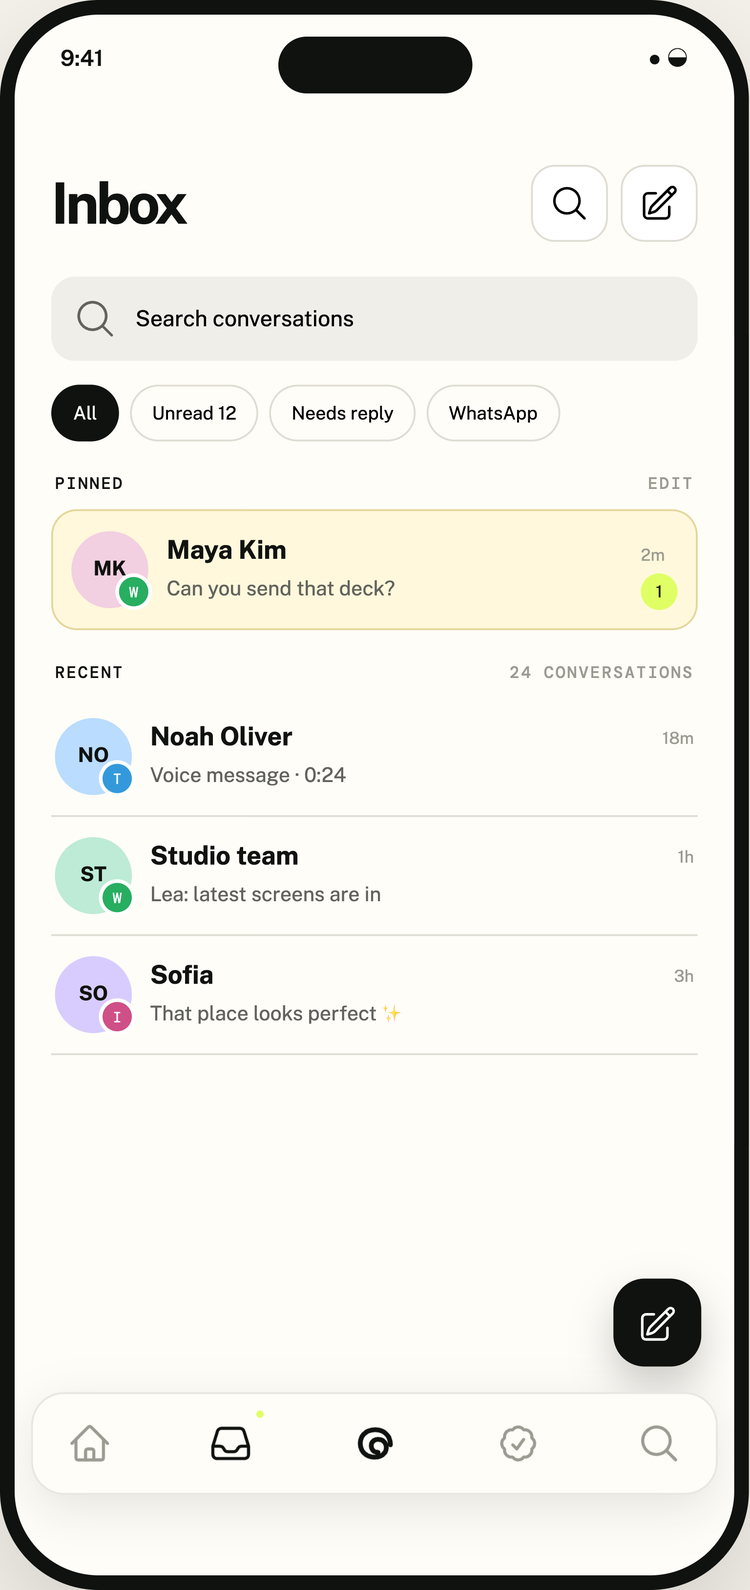
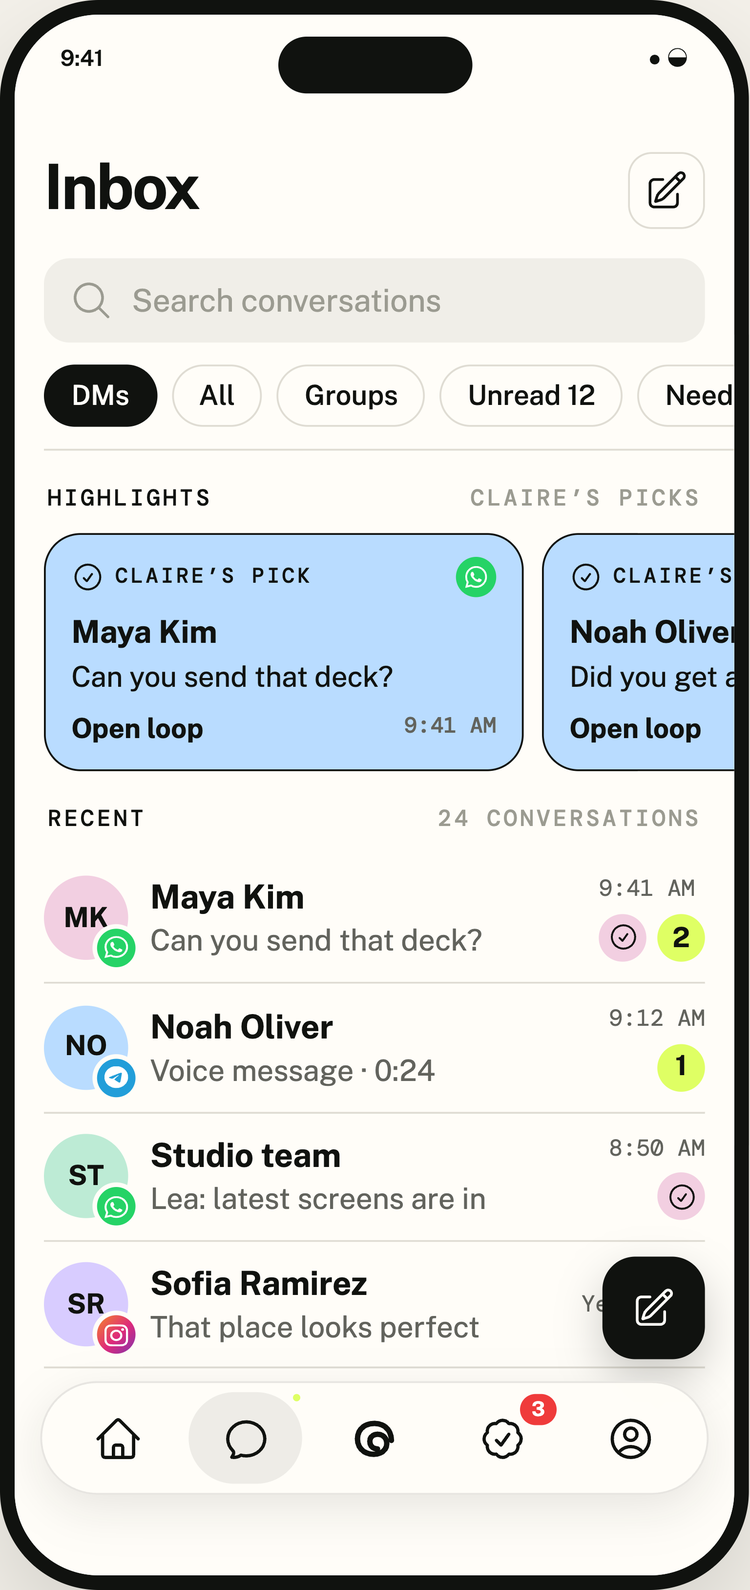
Re-shoot the mobile launch video on the refreshed mockups
The phone now shows the current app: tapping Maya opens the chat, Claire pins
an open loop when the deck is promised, View leads to Loops, and the Claire
tab answers the launch-timing question with its sources before Connections.
Captions grow from 92px to 104px.

The capture script resets scroll positions before shooting each base screen
(a piece below the fold scrolled the screen and shifted the base), and the
status bar overlay is keyed transparent so each screen's colour shows through.

diff --git a/marketing/launch-video/mobile/index.html b/marketing/launch-video/mobile/index.html
@@ -26,7 +26,7 @@
       .cap {
         position: absolute; left: 50%; transform: translateX(-50%); width: max-content; max-width: 1000px; text-align: center;
         padding: 16px 40px 26px; border-radius: 36px; background: rgba(250, 248, 242, 0);
-        font-family: "Inter", sans-serif; font-weight: 600; font-size: 92px; line-height: 1.04; letter-spacing: -0.04em; color: #10120f;
+        font-family: "Inter", sans-serif; font-weight: 600; font-size: 104px; line-height: 1.02; letter-spacing: -0.042em; color: #10120f;
       }
       .cap.light { color: #f4f1ea; }
       .cap .ln { display: block; white-space: nowrap; }
@@ -77,11 +77,10 @@
       .tapring { position: absolute; left: 0; top: 0; width: 60px; height: 60px; margin: -30px 0 0 -30px; border-radius: 50%; border: 3px solid #10120f; opacity: 0; z-index: 19; }
       .flash { position: absolute; border-radius: 18px; background: #dfff64; opacity: 0; mix-blend-mode: multiply; }
       .glow { position: absolute; border-radius: 16px; box-shadow: 0 0 0 3px #dfff64, 0 0 44px rgba(223, 255, 100, 0.95); opacity: 0; }
-      #tracked {
-        position: absolute; border-radius: 99px; background: #dfff64; color: #10120f; font-weight: 600; font-size: 11px;
-        display: flex; align-items: center; justify-content: center; gap: 3px; opacity: 0;
-      }
-      .qhalf { clip-path: inset(0 100% 0 0); }
+      /* typed question in the Ask Claire bar (app type is 17px at the mockup's 1.25 render scale) */
+      #typed { position: absolute; display: flex; align-items: center; font: 500 21.25px/1 "Public Sans", sans-serif; color: #10120f; }
+      #typed-text { display: block; overflow: hidden; white-space: nowrap; }
+      #typed-caret { width: 2px; height: 25px; background: #10120f; margin-left: 1px; }
 
       /* gallery phones */
       .gp { position: absolute; left: 0; top: 0; width: 511.25px; height: 1085px; border-radius: 67.5px; overflow: hidden; transform-origin: 0 0; box-shadow: 0 40px 90px rgba(16, 18, 15, 0.25); }
@@ -146,9 +145,9 @@
 
       <!-- S3–S6 · one continuous phone -->
       <div id="dev" class="clip" data-start="7.3" data-duration="21.9" data-track-index="1">
-        <div class="gp" id="gp1"><img src="assets/ui/full-daily-brief.png" alt="" /></div>
-        <div class="gp" id="gp2"><img src="assets/ui/full-ai-copilot.png" alt="" /></div>
-        <div class="gp" id="gp3"><img src="assets/ui/full-relationship-memory.png" alt="" /></div>
+        <div class="gp" id="gp1"><img src="assets/ui/full-home.png" alt="" /></div>
+        <div class="gp" id="gp2"><img src="assets/ui/full-ask-claire.png" alt="" /></div>
+        <div class="gp" id="gp3"><img src="assets/ui/full-loops.png" alt="" /></div>
         <div class="cam" id="cam">
           <div class="phone" id="phone">
             <img class="frame" src="assets/ui/ib-base.png" alt="" />
@@ -162,44 +161,40 @@
                 <img class="pc" id="ib-r4" src="assets/ui/ib-r4.png" alt="" />
                 <div class="flash" id="ib-flash"></div>
               </div>
-              <!-- promises -->
-              <div class="scr" id="scr-pr">
-                <img class="base" src="assets/ui/pr-base.png" alt="" />
-                <img class="pc" id="pr-p1" src="assets/ui/pr-p1.png" alt="" />
-                <img class="pc" id="pr-p2" src="assets/ui/pr-p2.png" alt="" />
-                <img class="pc" id="pr-p3" src="assets/ui/pr-p3.png" alt="" />
-                <img class="pc" id="pr-p4" src="assets/ui/pr-p4.png" alt="" />
-                <div class="glow" id="pr-glow"></div>
+              <!-- loops -->
+              <div class="scr" id="scr-lp">
+                <img class="base" src="assets/ui/lp-base.png" alt="" />
+                <img class="pc" id="lp-l1" src="assets/ui/lp-l1.png" alt="" />
+                <img class="pc" id="lp-l2" src="assets/ui/lp-l2.png" alt="" />
+                <img class="pc" id="lp-l3" src="assets/ui/lp-l3.png" alt="" />
+                <div class="glow" id="lp-glow"></div>
               </div>
               <!-- chat -->
               <div class="scr" id="scr-ch">
                 <img class="base" src="assets/ui/ch-base.png" alt="" />
-                <img class="pc" id="ch-ribbon" src="assets/ui/ch-ribbon.png" alt="" />
-                <img class="pc" id="ch-b1" src="assets/ui/ch-b1.png" alt="" />
-                <img class="pc" id="ch-b2" src="assets/ui/ch-b2.png" alt="" />
+                <img class="pc" id="ch-m1" src="assets/ui/ch-m1.png" alt="" />
+                <img class="pc" id="ch-m2" src="assets/ui/ch-m2.png" alt="" />
+                <img class="pc" id="ch-m3" src="assets/ui/ch-m3.png" alt="" />
                 <div class="glow" id="ch-glow"></div>
-                <img class="pc" id="ch-promise" src="assets/ui/ch-promise.png" alt="" />
-                <div id="tracked"><svg width="11" height="11" viewBox="0 0 24 24" fill="none" stroke="#10120F" stroke-width="3.4" stroke-linecap="round" stroke-linejoin="round"><path d="M5 12.5l4.5 4.5L19 7.5" /></svg>Tracked</div>
-                <img class="pc" id="ch-b3" src="assets/ui/ch-b3.png" alt="" />
+                <img class="pc" id="ch-loop" src="assets/ui/ch-loop.png" alt="" />
               </div>
-              <!-- search results -->
-              <div class="scr" id="scr-sr">
-                <img class="base" src="assets/ui/sr-base.png" alt="" />
-                <img class="pc qhalf" id="sr-q1" src="assets/ui/sr-query.png" alt="" />
-                <img class="pc qhalf" id="sr-q2" src="assets/ui/sr-query.png" alt="" />
-                <img class="pc" id="sr-count" src="assets/ui/sr-count.png" alt="" />
-                <div class="glow" id="sr-glow"></div>
-                <img class="pc" id="sr-answer" src="assets/ui/sr-answer.png" alt="" />
-                <img class="pc" id="sr-g1" src="assets/ui/sr-g1.png" alt="" />
-                <img class="pc" id="sr-g2" src="assets/ui/sr-g2.png" alt="" />
+              <!-- ask claire -->
+              <div class="scr" id="scr-ak">
+                <img class="base" src="assets/ui/ak-base.png" alt="" />
+                <div id="typed"><span id="typed-text">What did Maya say about launch timing?</span><span id="typed-caret"></span></div>
+                <img class="pc" id="ak-q" src="assets/ui/ak-q.png" alt="" />
+                <div class="glow" id="ak-glow"></div>
+                <img class="pc" id="ak-a" src="assets/ui/ak-a.png" alt="" />
+                <img class="pc" id="ak-src" src="assets/ui/ak-src.png" alt="" />
+                <img class="pc" id="ak-cards" src="assets/ui/ak-cards.png" alt="" />
               </div>
-              <!-- connected accounts -->
-              <div class="scr" id="scr-ca">
-                <img class="base" src="assets/ui/ca-base.png" alt="" />
-                <img class="pc" id="ca-a1" src="assets/ui/ca-a1.png" alt="" />
-                <img class="pc" id="ca-a2" src="assets/ui/ca-a2.png" alt="" />
-                <img class="pc" id="ca-a3" src="assets/ui/ca-a3.png" alt="" />
-                <img class="pc" id="ca-note" src="assets/ui/ca-note.png" alt="" />
+              <!-- connections -->
+              <div class="scr" id="scr-cn">
+                <img class="base" src="assets/ui/cn-base.png" alt="" />
+                <img class="pc" id="cn-n1" src="assets/ui/cn-n1.png" alt="" />
+                <img class="pc" id="cn-n2" src="assets/ui/cn-n2.png" alt="" />
+                <img class="pc" id="cn-n3" src="assets/ui/cn-n3.png" alt="" />
+                <img class="pc" id="cn-n4" src="assets/ui/cn-n4.png" alt="" />
               </div>
               <img class="status" src="assets/ui/status.png" alt="" />
             </div>
@@ -214,7 +209,7 @@
         <div class="cap" id="cap3a" style="top: 150px"><span class="ln"><span class="w">Every</span> <span class="w">chat,</span></span><span class="ln"><span class="w">in</span> <span class="w hl"><span class="sw"></span>one inbox.</span></span></div>
         <div class="cap" id="cap3b" style="top: 150px"><span class="ln"><span class="w">You</span> <span class="w">make</span></span><span class="ln"><span class="w">a</span> <span class="w">promise.</span></span></div>
         <div class="cap" id="cap3c" style="top: 150px"><span class="ln"><span class="w">Claire</span></span><span class="ln"><span class="w hl"><span class="sw"></span>keeps track.</span></span></div>
-        <div class="cap" id="cap4" style="top: 150px"><span class="ln"><span class="w">Every</span> <span class="w">promise,</span></span><span class="ln"><span class="w">in</span> <span class="w hl"><span class="sw"></span>one place.</span></span></div>
+        <div class="cap" id="cap4" style="top: 150px"><span class="ln"><span class="w">Every</span> <span class="w">loop,</span></span><span class="ln"><span class="w">in</span> <span class="w hl"><span class="sw"></span>one place.</span></span></div>
         <div class="cap" id="cap5a" style="top: 150px"><span class="ln"><span class="w">Ask</span> <span class="w">anything,</span></span></div>
         <div class="cap" id="cap5b" style="top: 150px"><span class="ln"><span class="w">answered</span> <span class="w">from</span></span><span class="ln"><span class="w hl"><span class="sw"></span>every chat.</span></span></div>
         <div class="cap" id="cap6a" style="top: 150px"><span class="ln"><span class="w">Connect</span></span><span class="ln"><span class="w slot" id="slot6"><span style="color: #14823d">WhatsApp</span><span style="color: #1673a3">Telegram</span><span style="color: #c21f63">Instagram</span><span>every network.</span></span></span></div>
@@ -251,21 +246,22 @@
       <audio id="sfx-collapse" src="assets/sfx/whoosh-short.mp3" data-start="4.35" data-duration="0.57" data-volume="0.6"></audio>
       <audio id="sfx-icon" src="assets/sfx/sparkle.mp3" data-start="5.05" data-duration="1.8" data-volume="0.55"></audio>
       <audio id="sfx-zoom" src="assets/sfx/whoosh-cinematic.mp3" data-start="6.6" data-duration="2.2" data-volume="0.5"></audio>
-      <audio id="sfx-tap1" src="assets/sfx/click-soft.mp3" data-start="9.9" data-duration="0.37" data-volume="0.8"></audio>
+      <audio id="sfx-tap1" src="assets/sfx/click-soft.mp3" data-start="9.85" data-duration="0.37" data-volume="0.8"></audio>
       <audio id="sfx-push1" src="assets/sfx/whoosh-short.mp3" data-start="10.1" data-duration="0.57" data-volume="0.35"></audio>
-      <audio id="sfx-b" src="assets/sfx/click-soft.mp3" data-start="11.3" data-duration="0.37" data-volume="0.5"></audio>
-      <audio id="sfx-promise" src="assets/sfx/chime.mp3" data-start="12.5" data-duration="1.6" data-volume="0.45"></audio>
-      <audio id="sfx-tap2" src="assets/sfx/click-soft.mp3" data-start="13.6" data-duration="0.37" data-volume="0.8"></audio>
-      <audio id="sfx-tap3" src="assets/sfx/click-soft.mp3" data-start="15.2" data-duration="0.37" data-volume="0.8"></audio>
-      <audio id="sfx-tap4" src="assets/sfx/click-soft.mp3" data-start="15.95" data-duration="0.37" data-volume="0.8"></audio>
-      <audio id="sfx-pr" src="assets/sfx/pop.mp3" data-start="16.6" data-duration="0.72" data-volume="0.4"></audio>
-      <audio id="sfx-tap5" src="assets/sfx/click-soft.mp3" data-start="18.4" data-duration="0.37" data-volume="0.8"></audio>
-      <audio id="sfx-type" src="assets/sfx/typing.mp3" data-start="18.9" data-duration="1.2" data-volume="0.5"></audio>
-      <audio id="sfx-ans" src="assets/sfx/sparkle.mp3" data-start="20.3" data-duration="1.8" data-volume="0.5"></audio>
-      <audio id="sfx-push2" src="assets/sfx/whoosh.mp3" data-start="22.9" data-duration="0.57" data-volume="0.45"></audio>
-      <audio id="sfx-k1" src="assets/sfx/pop.mp3" data-start="23.5" data-duration="0.72" data-volume="0.45"></audio>
-      <audio id="sfx-k2" src="assets/sfx/pop.mp3" data-start="24.05" data-duration="0.72" data-volume="0.45"></audio>
-      <audio id="sfx-k3" src="assets/sfx/pop.mp3" data-start="24.6" data-duration="0.72" data-volume="0.45"></audio>
+      <audio id="sfx-m" src="assets/sfx/click-soft.mp3" data-start="11.3" data-duration="0.37" data-volume="0.5"></audio>
+      <audio id="sfx-loop" src="assets/sfx/chime.mp3" data-start="12.45" data-duration="1.6" data-volume="0.45"></audio>
+      <audio id="sfx-tap2" src="assets/sfx/click-soft.mp3" data-start="13.95" data-duration="0.37" data-volume="0.8"></audio>
+      <audio id="sfx-push-lp" src="assets/sfx/whoosh-short.mp3" data-start="14.15" data-duration="0.57" data-volume="0.35"></audio>
+      <audio id="sfx-lp" src="assets/sfx/pop.mp3" data-start="15.0" data-duration="0.72" data-volume="0.4"></audio>
+      <audio id="sfx-tap3" src="assets/sfx/click-soft.mp3" data-start="17.45" data-duration="0.37" data-volume="0.8"></audio>
+      <audio id="sfx-tap4" src="assets/sfx/click-soft.mp3" data-start="18.1" data-duration="0.37" data-volume="0.8"></audio>
+      <audio id="sfx-type" src="assets/sfx/typing.mp3" data-start="18.3" data-duration="1.15" data-volume="0.5"></audio>
+      <audio id="sfx-tap5" src="assets/sfx/click-soft.mp3" data-start="19.6" data-duration="0.37" data-volume="0.8"></audio>
+      <audio id="sfx-ans" src="assets/sfx/sparkle.mp3" data-start="20.15" data-duration="1.8" data-volume="0.5"></audio>
+      <audio id="sfx-push2" src="assets/sfx/whoosh.mp3" data-start="22.5" data-duration="0.57" data-volume="0.45"></audio>
+      <audio id="sfx-k1" src="assets/sfx/pop.mp3" data-start="23.1" data-duration="0.72" data-volume="0.45"></audio>
+      <audio id="sfx-k2" src="assets/sfx/pop.mp3" data-start="23.65" data-duration="0.72" data-volume="0.45"></audio>
+      <audio id="sfx-k3" src="assets/sfx/pop.mp3" data-start="24.2" data-duration="0.72" data-volume="0.45"></audio>
       <audio id="sfx-riser" src="assets/sfx/riser.mp3" data-start="25.6" data-duration="3.2" data-volume="0.35"></audio>
       <audio id="sfx-pix" src="assets/sfx/whoosh-cinematic.mp3" data-start="28" data-duration="2" data-volume="0.45"></audio>
       <audio id="sfx-wm" src="assets/sfx/impact-bass-1.mp3" data-start="31.9" data-duration="2.1" data-volume="0.6"></audio>
@@ -276,26 +272,23 @@
       (function () {
         // ------- positions measured from the website mockups (phone-local CSS px, 511.25×1085) -------
         const LAYOUT = {
-          ib: { r1: [35, 346.9, 441.3, 82.5], r2: [35, 475.6, 441.3, 81.3], r3: [35, 556.9, 441.3, 81.3], r4: [35, 638.1, 441.3, 81.3] },
-          ch: { ribbon: [26.3, 178.8, 458.8, 78.8], b1: [27.5, 304.4, 355.9, 83.1], b2: [152.2, 397.5, 331.5, 62.1], promise: [27.5, 469.5, 456.3, 61.3], b3: [27.5, 540.8, 355.9, 64.6], track: [424.1, 486.4, 45.9, 27.5] },
-          pr: { p1: [35, 381.9, 441.3, 85], p2: [35, 466.9, 441.3, 85], p3: [35, 598.1, 441.3, 85], p4: [35, 683.1, 441.3, 85] },
-          sr: { query: [35, 182.5, 441.3, 75], count: [35, 268.8, 441.3, 16.9], answer: [35, 304.4, 441.3, 151.9], g1: [35, 475, 441.3, 182.5], g2: [35, 673.8, 441.3, 106.3] },
-          ca: { a1: [35, 364.6, 441.3, 88.8], a2: [35, 464.6, 441.3, 88.8], a3: [35, 564.6, 441.3, 88.8], note: [35, 673.4, 441.3, 80.6] },
+          ib: { r1: [30, 582.2, 451.3, 88.6], r2: [30, 670.8, 451.3, 88.6], r3: [30, 759.4, 451.3, 88.6], r4: [30, 848, 451.3, 86.3] },
+          ch: { loop: [25, 175.3, 461.3, 88.2], m1: [25, 313.8, 350.5, 118.8], m2: [135.7, 442.5, 350.5, 118.8], m3: [25, 571.3, 350.5, 118.8] },
+          lp: { l1: [30, 403.2, 451.3, 135], l2: [30, 538.2, 451.3, 135], l3: [30, 673.2, 451.3, 135] },
+          ak: { q: [93.2, 203.8, 388.1, 92.5], a: [30, 311.3, 451.3, 162.5], src: [30, 488.8, 451.3, 33.8], cards: [30, 535, 471.3, 180.2] },
+          cn: { n1: [47.5, 586.1, 416.3, 115.3], n2: [47.5, 701.4, 416.3, 116.6], n3: [47.5, 874.1, 416.3, 115.3], n4: [47.5, 989.4, 416.3, 116.6] },
         };
-        // Tap targets not captured as pieces (read off the base screens).
-        const BACK = [47, 128], TAB_PROMISES = [353, 984], TAB_SEARCH = [449, 984];
+        // Tap targets and overlays measured alongside the pieces.
+        const VIEW = [422.3, 205.9, 45.2, 27], TAB_CLAIRE = [216.9, 950, 77.5, 62.5];
+        const AK_INPUT = [53.8, 880.7, 356.3, 28.7], AK_SEND = [422.5, 871.3, 47.5, 47.5];
 
         const place = (id, r) => { const e = document.getElementById(id); Object.assign(e.style, { left: r[0] + "px", top: r[1] + "px", width: r[2] + "px", height: r[3] + "px" }); };
-        Object.entries(LAYOUT).forEach(([scr, pieces]) => Object.entries(pieces).forEach(([k, r]) => {
-          if (scr === "ch" && k === "track") return;
-          if (scr === "sr" && k === "query") { place("sr-q1", r); place("sr-q2", r); return; }
-          place(scr + "-" + k, r);
-        }));
+        Object.entries(LAYOUT).forEach(([scr, pieces]) => Object.entries(pieces).forEach(([k, r]) => place(scr + "-" + k, r)));
         place("ib-flash", LAYOUT.ib.r1);
-        place("ch-glow", LAYOUT.ch.promise);
-        place("tracked", LAYOUT.ch.track);
-        place("pr-glow", LAYOUT.pr.p1);
-        place("sr-glow", LAYOUT.sr.answer);
+        place("ch-glow", LAYOUT.ch.loop);
+        place("lp-glow", LAYOUT.lp.l1);
+        place("ak-glow", LAYOUT.ak.a);
+        place("typed", AK_INPUT);
 
         // ------- S1 notifications -------
         const NOTES = [
@@ -379,9 +372,13 @@
             tl.to("#tap", { scale: 0.85, opacity: 0, duration: 0.3, ease: "power2.in" }, at + 0.22);
             tl.fromTo("#tapring", { x: x, y: y, scale: 0.8, opacity: 0.7 }, { scale: 1.8, opacity: 0, duration: 0.5, ease: "power2.out", immediateRender: false }, at + 0.05);
           };
+          // Each newly shown screen stacks above everything shown before it.
+          let depth = 1;
+          const raise = (sel, at) => tl.set(sel, { zIndex: ++depth }, at);
           const push = (inSel, outSel, at) => {
+            raise(inSel, at);
             tl.fromTo(inSel, { x: 511, opacity: 1 }, { x: 0, duration: 0.5, ease: "power3.inOut", immediateRender: false }, at);
-            if (outSel) tl.to(outSel, { x: -150, opacity: 0.4, duration: 0.5, ease: "power3.inOut" }, at);
+            if (outSel) tl.to(outSel, { x: -150, filter: "brightness(0.82)", duration: 0.5, ease: "power3.inOut" }, at);
           };
           const mid = (r) => [r[0] + r[2] / 2, r[1] + r[3] / 2];
           const S0 = [1.3, 255.6, 542, 540, 1150];
@@ -423,12 +420,12 @@
           tl.to("#lime-fill", { opacity: 1, duration: 0.15 }, 7.15);
           tl.to("#wall-dark", { opacity: 0, duration: 0.01 }, 7.3);
 
-          // ===== S3 · inbox → chat → promise (7.3 – 15.2) =====
+          // ===== S3 · inbox → chat → open loop (7.3 – 14.2) =====
           camSet(...S0);
-          gsap.set("#scr-pr, #scr-ch, #scr-sr, #scr-ca", { x: 511 });
-          gsap.set("#scr-pr", { x: 0, opacity: 0 });
+          gsap.set("#scr-lp, #scr-ch, #scr-ak, #scr-cn", { x: 511 });
+          gsap.set("#scr-ak", { x: 0, opacity: 0 });
           gsap.set(".gp", { opacity: 0 });
-          gsap.set("#ib-r1, #ib-r2, #ib-r3, #ib-r4, #ch-ribbon, #ch-b1, #ch-b2, #ch-promise, #ch-b3, #pr-p1, #pr-p2, #pr-p3, #pr-p4, #sr-count, #sr-answer, #sr-g1, #sr-g2, #ca-a1, #ca-a2, #ca-a3, #ca-note", { opacity: 0 });
+          gsap.set("#ib-r1, #ib-r2, #ib-r3, #ib-r4, #ch-m1, #ch-m2, #ch-m3, #ch-loop, #lp-l1, #lp-l2, #lp-l3, #ak-q, #ak-a, #ak-src, #ak-cards, #cn-n1, #cn-n2, #cn-n3, #cn-n4", { opacity: 0 });
           tl.fromTo("#phone", { y: 700, rotationX: 24, scale: 0.9, filter: "blur(18px)", transformPerspective: 2000, transformOrigin: "50% 0%" }, { y: 0, rotationX: 0, scale: 1, filter: "blur(0px)", duration: 1.1, ease: "expo.out" }, 7.3);
           capIn("#cap3a", 7.6, 0.1);
           tl.fromTo("#ib-r1, #ib-r2, #ib-r3, #ib-r4", { opacity: 0, x: -30 }, { opacity: 1, x: 0, duration: 0.45, ease: "expo.out", stagger: 0.09 }, 7.9);
@@ -438,63 +435,64 @@
           tl.fromTo("#ib-flash", { opacity: 0 }, { opacity: 0.55, duration: 0.1, yoyo: true, repeat: 1 }, 9.9);
           capOut("#cap3a", 10.0);
           push("#scr-ch", "#scr-ib", 10.1);
-          camTo(1.8, 255, 430, 540, 1180, 10.3, 1.0);
-          tl.fromTo("#ch-ribbon", { opacity: 0, y: -12 }, { opacity: 1, y: 0, duration: 0.4, ease: "power3.out" }, 10.6);
-          tl.fromTo("#ch-b1", { opacity: 0, y: 14, scale: 0.94, transformOrigin: "0% 100%" }, { opacity: 1, y: 0, scale: 1, duration: 0.4, ease: "back.out(1.8)" }, 10.9);
-          capIn("#cap3b", 11.0, 0.08);
-          tl.fromTo("#ch-b2", { opacity: 0, y: 14, scale: 0.94, transformOrigin: "100% 100%" }, { opacity: 1, y: 0, scale: 1, duration: 0.4, ease: "back.out(1.8)" }, 11.3);
+          camTo(1.75, 255, 430, 540, 1200, 10.3, 1.0);
+          tl.fromTo("#ch-m1", { opacity: 0, y: 16, scale: 0.94, transformOrigin: "0% 100%" }, { opacity: 1, y: 0, scale: 1, duration: 0.4, ease: "back.out(1.8)" }, 10.7);
+          capIn("#cap3b", 10.85, 0.08);
+          tl.fromTo("#ch-m2", { opacity: 0, y: 16, scale: 0.94, transformOrigin: "100% 100%" }, { opacity: 1, y: 0, scale: 1, duration: 0.4, ease: "back.out(1.8)" }, 11.3);
           capOut("#cap3b", 12.2);
-          tl.fromTo("#ch-promise", { opacity: 0, scale: 0.9, filter: "blur(10px)" }, { opacity: 1, scale: 1, filter: "blur(0px)", duration: 0.5, ease: "expo.out" }, 12.5);
+          // Claire hears the commitment and pins the open loop above the thread
+          tl.fromTo("#ch-loop", { opacity: 0, y: -40, scale: 0.94, filter: "blur(8px)" }, { opacity: 1, y: 0, scale: 1, filter: "blur(0px)", duration: 0.55, ease: "expo.out" }, 12.45);
           tl.fromTo("#ch-glow", { opacity: 0 }, { opacity: 1, duration: 0.25 }, 12.55);
-          tl.to("#ch-glow", { opacity: 0, duration: 0.6 }, 13.2);
-          capIn("#cap3c", 12.6, 0.1);
-          const trk = mid(LAYOUT.ch.track);
-          tap(trk[0], trk[1], 13.6);
-          tl.fromTo("#tracked", { opacity: 0, scale: 0.6 }, { opacity: 1, scale: 1, duration: 0.3, ease: "back.out(3)" }, 13.7);
-          tl.fromTo("#ch-b3", { opacity: 0, y: 14 }, { opacity: 1, y: 0, duration: 0.4, ease: "back.out(1.8)" }, 14.1);
-          camTo(...S0, 14.3, 0.8);
-          capOut("#cap3c", 14.9);
+          tl.to("#ch-glow", { opacity: 0, duration: 0.7 }, 13.2);
+          capIn("#cap3c", 12.55, 0.1);
+          tl.fromTo("#ch-m3", { opacity: 0, y: 16 }, { opacity: 1, y: 0, duration: 0.4, ease: "back.out(1.8)" }, 13.3);
+          const vw = mid(VIEW);
+          tap(vw[0], vw[1], 13.95);
+          capOut("#cap3c", 14.0);
 
-          // ===== S4 · back → promises tab (15.2 – 18.3) =====
-          tap(BACK[0], BACK[1], 15.2);
-          tl.to("#scr-ch", { x: 511, duration: 0.45, ease: "power3.inOut" }, 15.3);
-          tl.to("#scr-ib", { x: 0, opacity: 1, duration: 0.45, ease: "power3.inOut" }, 15.3);
-          tap(TAB_PROMISES[0], TAB_PROMISES[1], 15.95);
-          tl.fromTo("#scr-pr", { opacity: 0, scale: 0.98 }, { opacity: 1, scale: 1, duration: 0.3, ease: "power2.out", immediateRender: false }, 16.05);
-          tl.fromTo("#pr-p1, #pr-p2, #pr-p3, #pr-p4", { opacity: 0, y: 16 }, { opacity: 1, y: 0, duration: 0.4, ease: "expo.out", stagger: 0.08 }, 16.15);
-          capIn("#cap4", 16.1, 0.09);
-          tl.fromTo("#pr-glow", { opacity: 0 }, { opacity: 1, duration: 0.3 }, 16.6);
-          tl.to("#pr-glow", { opacity: 0, duration: 0.6 }, 17.3);
-          camTo(1.6, 255, 450, 540, 1160, 16.3, 1.1);
-          capOut("#cap4", 17.6);
-          camTo(...S0, 17.8, 0.55);
+          // ===== S4 · loops (14.2 – 17.4) =====
+          push("#scr-lp", "#scr-ch", 14.15);
+          camTo(...S0, 14.1, 0.7);
+          tl.fromTo("#lp-l1, #lp-l2, #lp-l3", { opacity: 0, y: 18 }, { opacity: 1, y: 0, duration: 0.45, ease: "expo.out", stagger: 0.1 }, 14.5);
+          capIn("#cap4", 14.6, 0.09);
+          tl.fromTo("#lp-glow", { opacity: 0 }, { opacity: 1, duration: 0.3 }, 15.0);
+          tl.to("#lp-glow", { opacity: 0, duration: 0.7 }, 15.8);
+          camTo(1.55, 255, 540, 540, 1180, 14.9, 1.1);
+          capOut("#cap4", 16.8);
+          camTo(...S0, 16.9, 0.5);
 
-          // ===== S5 · search tab: Claire answers (18.3 – 22.9) =====
-          tap(TAB_SEARCH[0], TAB_SEARCH[1], 18.4);
-          push("#scr-sr", "#scr-pr", 18.5);
-          capIn("#cap5a", 18.6, 0.12);
-          tl.fromTo("#sr-q1", { clipPath: "inset(0% 100% 50% 0%)" }, { clipPath: "inset(0% 0% 50% 0%)", duration: 0.6, ease: "steps(18)" }, 18.95);
-          tl.fromTo("#sr-q2", { clipPath: "inset(50% 100% 0% 0%)" }, { clipPath: "inset(50% 0% 0% 0%)", duration: 0.55, ease: "steps(20)" }, 19.55);
-          tl.fromTo("#sr-count", { opacity: 0 }, { opacity: 1, duration: 0.3 }, 20.1);
-          capOut("#cap5a", 20.15);
-          tl.fromTo("#sr-answer", { opacity: 0, y: 24, filter: "blur(12px)" }, { opacity: 1, y: 0, filter: "blur(0px)", duration: 0.6, ease: "expo.out" }, 20.3);
-          tl.fromTo("#sr-glow", { opacity: 0 }, { opacity: 1, duration: 0.3 }, 20.4);
-          tl.to("#sr-glow", { opacity: 0, duration: 0.7 }, 21.1);
-          capIn("#cap5b", 20.45, 0.1);
-          camTo(1.7, 255, 390, 540, 1170, 20.3, 1.0);
-          tl.fromTo("#sr-g1, #sr-g2", { opacity: 0, y: 20 }, { opacity: 1, y: 0, duration: 0.45, ease: "expo.out", stagger: 0.15 }, 20.9);
-          capOut("#cap5b", 22.4);
-          camTo(...S0, 22.5, 0.6);
+          // ===== S5 · Ask Claire (17.4 – 22.5) =====
+          const tc = mid(TAB_CLAIRE);
+          tap(tc[0], tc[1], 17.45);
+          raise("#scr-ak", 17.55);
+          tl.fromTo("#scr-ak", { opacity: 0, scale: 0.98 }, { opacity: 1, scale: 1, duration: 0.3, ease: "power2.out", immediateRender: false }, 17.55);
+          capIn("#cap5a", 17.7, 0.12);
+          tap(AK_INPUT[0] + 60, AK_INPUT[1] + 14, 18.1);
+          const tt = document.getElementById("typed-text");
+          const tw = tt.scrollWidth;
+          tl.fromTo(tt, { width: 0 }, { width: tw, duration: 1.15, ease: "steps(" + tt.textContent.length + ")" }, 18.3);
+          tl.fromTo("#typed-caret", { opacity: 1 }, { opacity: 0, duration: 0.01, repeat: 5, yoyo: true, repeatDelay: 0.2 }, 18.15);
+          const sd = mid(AK_SEND);
+          tap(sd[0], sd[1], 19.6);
+          tl.to("#typed", { opacity: 0, duration: 0.15 }, 19.7);
+          tl.fromTo("#ak-q", { opacity: 0, y: 30, scale: 0.94, transformOrigin: "100% 100%" }, { opacity: 1, y: 0, scale: 1, duration: 0.45, ease: "back.out(1.6)" }, 19.75);
+          capOut("#cap5a", 19.8);
+          camTo(1.6, 255, 400, 540, 1180, 20.0, 1.0);
+          tl.fromTo("#ak-a", { opacity: 0, y: 24, filter: "blur(12px)" }, { opacity: 1, y: 0, filter: "blur(0px)", duration: 0.6, ease: "expo.out" }, 20.15);
+          tl.fromTo("#ak-glow", { opacity: 0 }, { opacity: 1, duration: 0.3 }, 20.25);
+          tl.to("#ak-glow", { opacity: 0, duration: 0.7 }, 21.0);
+          capIn("#cap5b", 20.3, 0.1);
+          tl.fromTo("#ak-src", { opacity: 0, y: 12 }, { opacity: 1, y: 0, duration: 0.4, ease: "power3.out" }, 20.65);
+          tl.fromTo("#ak-cards", { opacity: 0, x: 80 }, { opacity: 1, x: 0, duration: 0.6, ease: "expo.out" }, 20.85);
+          capOut("#cap5b", 22.0);
+          camTo(...S0, 22.1, 0.5);
 
-          // ===== S6 · connections → gallery → pixels (22.9 – 29.2) =====
-          push("#scr-ca", "#scr-sr", 22.9);
-          capIn("#cap6a", 23.1, 0.1);
-          slot("slot6", [24.0, 24.55, 25.1]);
-          tl.fromTo("#ca-a1", { opacity: 0, scale: 0.9, y: 20 }, { opacity: 1, scale: 1, y: 0, duration: 0.45, ease: "back.out(1.8)" }, 23.5);
-          tl.fromTo("#ca-a2", { opacity: 0, scale: 0.9, y: 20 }, { opacity: 1, scale: 1, y: 0, duration: 0.45, ease: "back.out(1.8)" }, 24.05);
-          tl.fromTo("#ca-a3", { opacity: 0, scale: 0.9, y: 20 }, { opacity: 1, scale: 1, y: 0, duration: 0.45, ease: "back.out(1.8)" }, 24.6);
-          tl.fromTo("#ca-note", { opacity: 0, y: 14 }, { opacity: 1, y: 0, duration: 0.4, ease: "power3.out" }, 25.2);
-          capOut("#cap6a", 25.8);
+          // ===== S6 · connections → gallery → pixels (22.5 – 29.2) =====
+          push("#scr-cn", "#scr-ak", 22.5);
+          capIn("#cap6a", 22.7, 0.1);
+          slot("slot6", [23.6, 24.15, 24.7]);
+          ["#cn-n1", "#cn-n2", "#cn-n3", "#cn-n4"].forEach((n, i) => tl.fromTo(n, { opacity: 0, scale: 0.92, y: 20 }, { opacity: 1, scale: 1, y: 0, duration: 0.45, ease: "back.out(1.8)" }, 23.1 + i * 0.55));
+          capOut("#cap6a", 25.6);
           // 2×2 gallery: this phone lands bottom-right, three more fan in
           const GS = 0.62, GP = [[205, 390], [562, 390], [205, 1104]];
           camTo(GS, 0, 0, 562, 1104, 26.0, 0.9, "expo.inOut");

diff --git a/marketing/launch-video/README.md b/marketing/launch-video/README.md
@@ -27,13 +27,17 @@ self-contained HyperFrames project; `index.html` is the whole composition
 
 ### Mobile cut
 
-Same arc, but one phone carries the whole middle: tap Maya → the chat pushes in
-and Claire finds the promise → tap Track → back to the inbox and the Promises
-tab → the Search tab, where Claire answers "What did Maya say about launch
-timing?" from three conversations → connected accounts → a 2×2 grid of phones
-("It all lives together"). Taps are shown as a touch indicator rather than a
-cursor. Screens push inside the phone's viewport while the bezel and status bar
-stay put.
+Same arc, but one phone carries the whole middle: tap Maya → the chat pushes in,
+and when you promise the deck Claire pins an **open loop** above the thread →
+tap View → the Loops tab → the Claire tab, where "What did Maya say about launch
+timing?" is typed and answered with its sources → Connections → a 2×2 grid of
+phones ("It all lives together"). Taps are shown as a touch indicator rather
+than a cursor. Screens push inside the phone's viewport while the bezel and
+status bar stay put.
+
+The phone screens come from the refreshed `.rf` screens in `app-mockups.html`
+(see `app-mockups-refresh.css`), which match the shipping app's Home, Inbox,
+chat, Loops, Ask Claire and Connections at the app's real type size.
 
 ## Render
 
@@ -73,7 +77,8 @@ node marketing/launch-video/mobile/scripts/capture-ui.cjs marketing/launch-video
 The scripts load `puppeteer-core` from the repo's `node_modules`; in a checkout
 without it, point `PUPPETEER_CORE` at another copy. The mobile status bar
 (`mobile/assets/ui/status.png`) is a crop of `ib-base.png`
-(`ffmpeg -i ib-base.png -vf crop=1474:195:30:30 status.png`).
+with the paper background keyed out, so each screen's colour shows through
+(`ffmpeg -i ib-base.png -vf "crop=1474:195:30:30,colorkey=0xFFFDF8:0.12:0.08,format=rgba" status.png`).
 
 ## Audio
 
